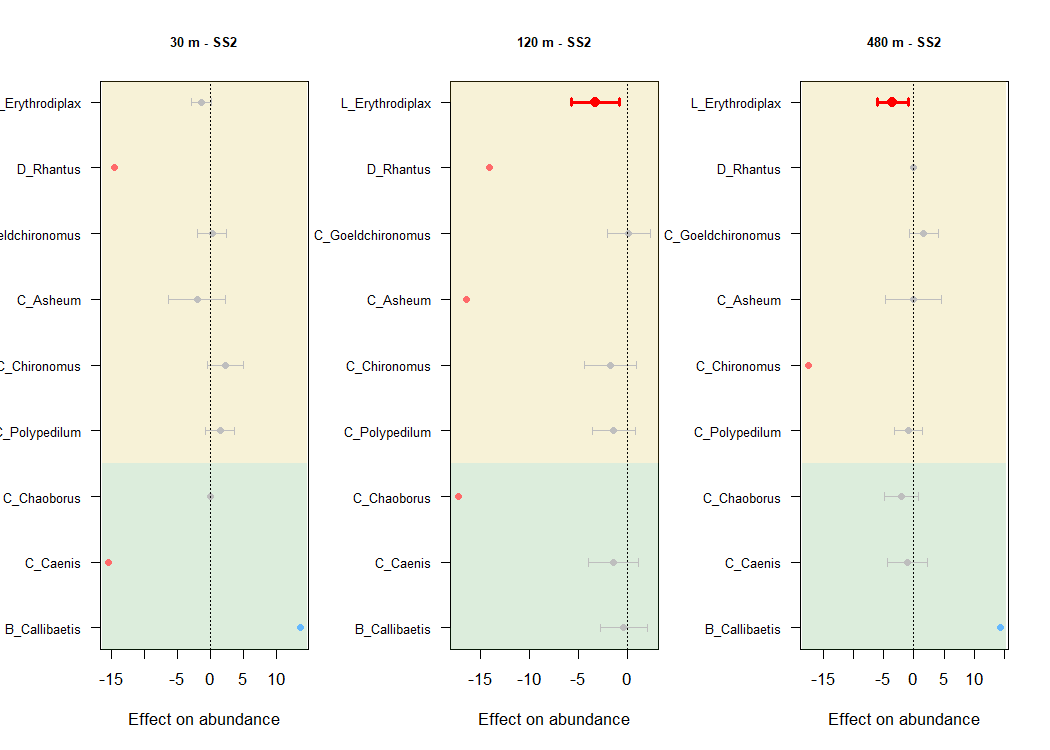
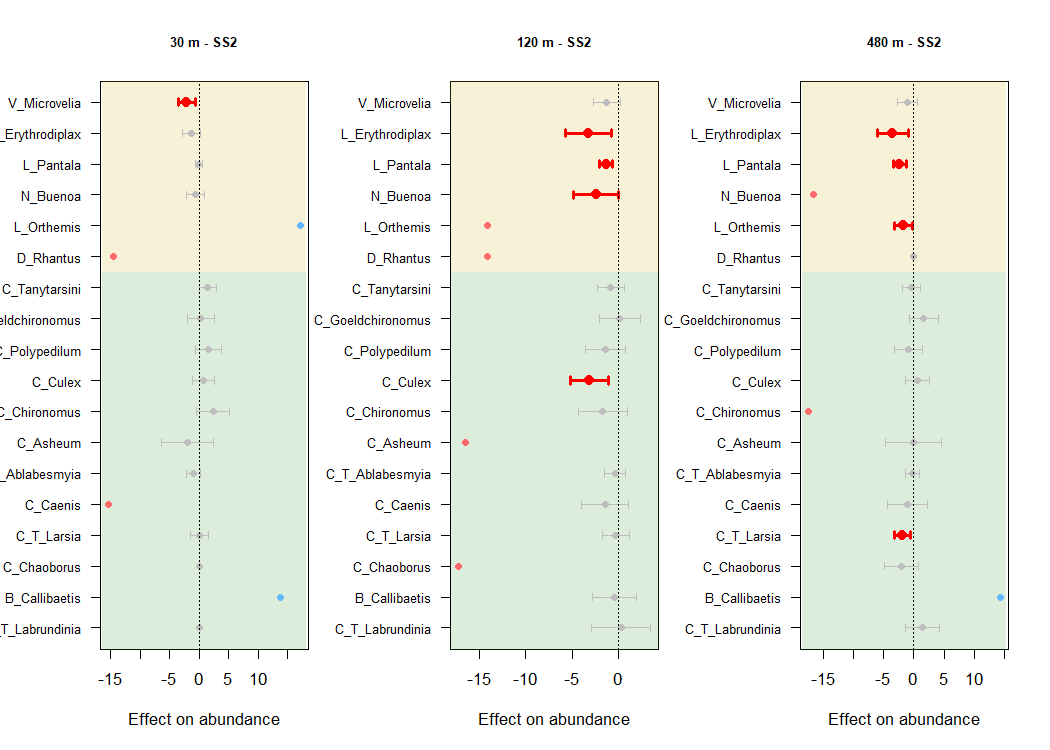
Correcting coefficients that were wrong

diff --git a/Community Structure/Community-Structure.md b/Community Structure/Community-Structure.md
@@ -517,8 +517,8 @@ Plotting coefficients and confidence intervals for each species.
 First, we compare the effect of fish in each isolation distance.
 
 ``` r
-ab_SS2_pred <- order(colSums(com[which(TRAITS$trophic == "Pr")])[which(colSums(com_oc[which(survey == "1"),which(TRAITS$trophic == "Pr")]) > 2)], decreasing = T)
-ab_SS2_cons <- order(colSums(com[which(TRAITS$trophic == "Non_Pred")])[which(colSums(com_oc[which(survey == "1"),which(TRAITS$trophic == "Non_Pred")]) > 2)], decreasing = T)
+ab_SS2_pred <- order(colSums(com[which(TRAITS$trophic == "Pr")])[which(colSums(com_oc[which(survey == "2"),which(TRAITS$trophic == "Pr")]) > 2)], decreasing = T)
+ab_SS2_cons <- order(colSums(com[which(TRAITS$trophic == "Non_Pred")])[which(colSums(com_oc[which(survey == "2"),which(TRAITS$trophic == "Non_Pred")]) > 2)], decreasing = T)
 
 par(mfrow = c(1,3), mar = c(5, 5, 4, 2) + 0.1)
 
@@ -533,6 +533,12 @@ My_coefplot(c(as.matrix(c(fish_effect_SS2_30[which(TRAITS_SS2$trophic == "Pr")][
             xlab = "Effect on abundance",
             main = "30 m - SS2", cex.axis = 0.8, cex.main = 0.8, rect = T, rect_lim = 6)
 ```
+
+    ## Warning in arrows(y1 = At.y, y0 = At.y, x1 = upper, x0 = lower, code = 3, :
+    ## zero-length arrow is of indeterminate angle and so skipped
+
+    ## Warning in arrows(y1 = At.y, y0 = At.y, x1 = upper, x0 = lower, code = 3, :
+    ## zero-length arrow is of indeterminate angle and so skipped
 
     ## Warning in arrows(y1 = At.y, y0 = At.y, x1 = upper, x0 = lower, code = 3, :
     ## zero-length arrow is of indeterminate angle and so skipped
@@ -565,6 +571,12 @@ My_coefplot(c(as.matrix(c(fish_effect_SS2_120[which(TRAITS_SS2$trophic == "Pr")]
     ## Warning in arrows(y1 = At.y, y0 = At.y, x1 = upper, x0 = lower, code = 3, :
     ## zero-length arrow is of indeterminate angle and so skipped
 
+    ## Warning in arrows(y1 = At.y, y0 = At.y, x1 = upper, x0 = lower, code = 3, :
+    ## zero-length arrow is of indeterminate angle and so skipped
+
+    ## Warning in arrows(y1 = At.y, y0 = At.y, x1 = upper, x0 = lower, code = 3, :
+    ## zero-length arrow is of indeterminate angle and so skipped
+
 ``` r
 My_coefplot(c(as.matrix(c(fish_effect_SS2_480[which(TRAITS_SS2$trophic == "Pr")][ab_SS2_pred],
                           fish_effect_SS2_480[which(TRAITS_SS2$trophic == "Non_Pred")][ab_SS2_cons]))),
@@ -577,6 +589,12 @@ My_coefplot(c(as.matrix(c(fish_effect_SS2_480[which(TRAITS_SS2$trophic == "Pr")]
             xlab = "Effect on abundance",
             main = "480 m - SS2", cex.axis = 0.8, cex.main = 0.8, rect = T, rect_lim = 6)
 ```
+
+    ## Warning in arrows(y1 = At.y, y0 = At.y, x1 = upper, x0 = lower, code = 3, :
+    ## zero-length arrow is of indeterminate angle and so skipped
+
+    ## Warning in arrows(y1 = At.y, y0 = At.y, x1 = upper, x0 = lower, code = 3, :
+    ## zero-length arrow is of indeterminate angle and so skipped
 
     ## Warning in arrows(y1 = At.y, y0 = At.y, x1 = upper, x0 = lower, code = 3, :
     ## zero-length arrow is of indeterminate angle and so skipped
@@ -873,8 +891,8 @@ Plotting coefficients and confidence intervals for each species.
 First, we compare the effect of fish in each isolation distance.
 
 ``` r
-ab_SS3_pred <- order(colSums(com[which(TRAITS$trophic == "Pr")])[which(colSums(com_oc[which(survey == "1"),which(TRAITS$trophic == "Pr")]) > 2)], decreasing = T)
-ab_SS3_cons <- order(colSums(com[which(TRAITS$trophic == "Non_Pred")])[which(colSums(com_oc[which(survey == "1"),which(TRAITS$trophic == "Non_Pred")]) > 2)], decreasing = T)
+ab_SS3_pred <- order(colSums(com[which(TRAITS$trophic == "Pr")])[which(colSums(com_oc[which(survey == "3"),which(TRAITS$trophic == "Pr")]) > 2)], decreasing = T)
+ab_SS3_cons <- order(colSums(com[which(TRAITS$trophic == "Non_Pred")])[which(colSums(com_oc[which(survey == "3"),which(TRAITS$trophic == "Non_Pred")]) > 2)], decreasing = T)
 
 par(mfrow = c(1,3), mar = c(5, 5, 4, 2) + 0.1)
 
